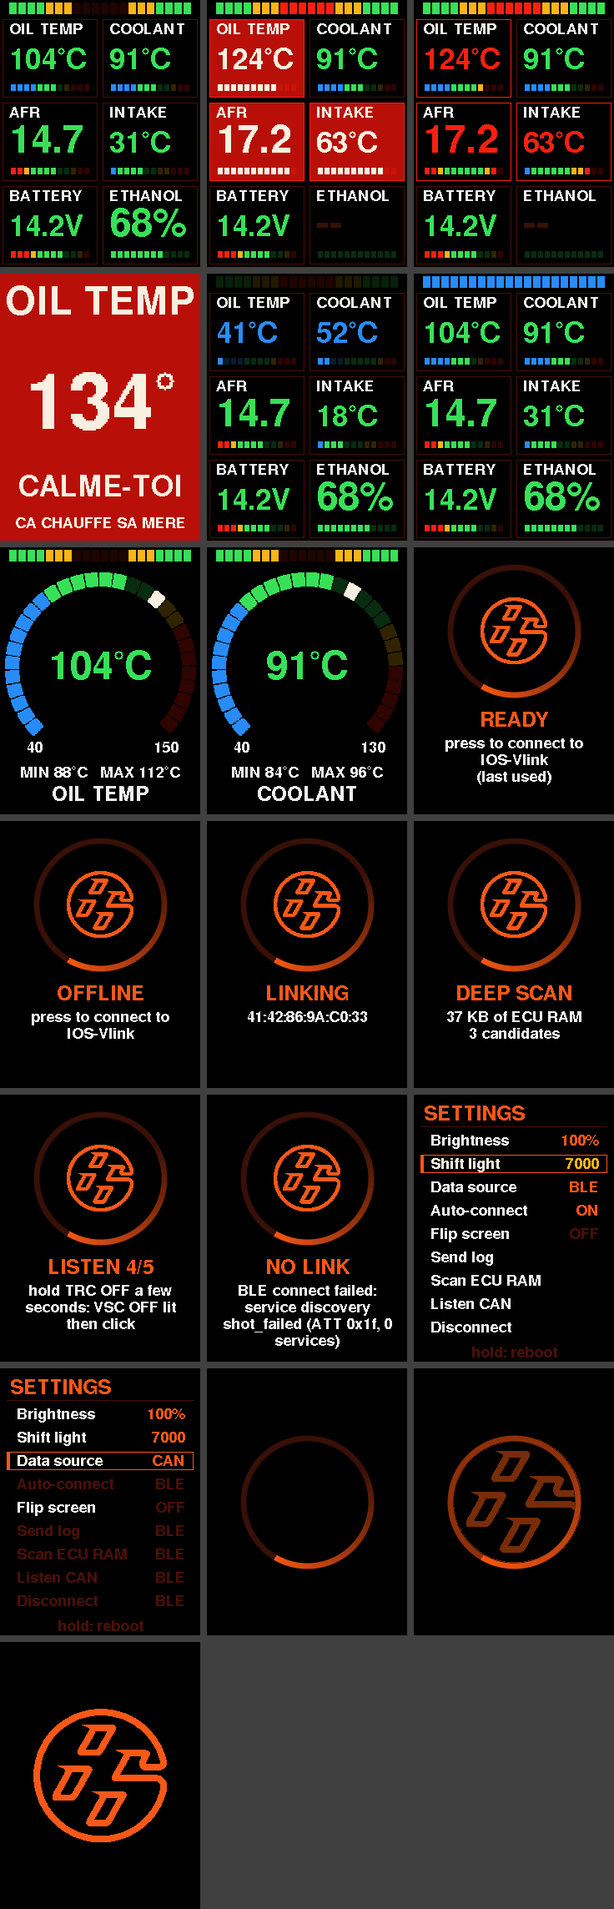
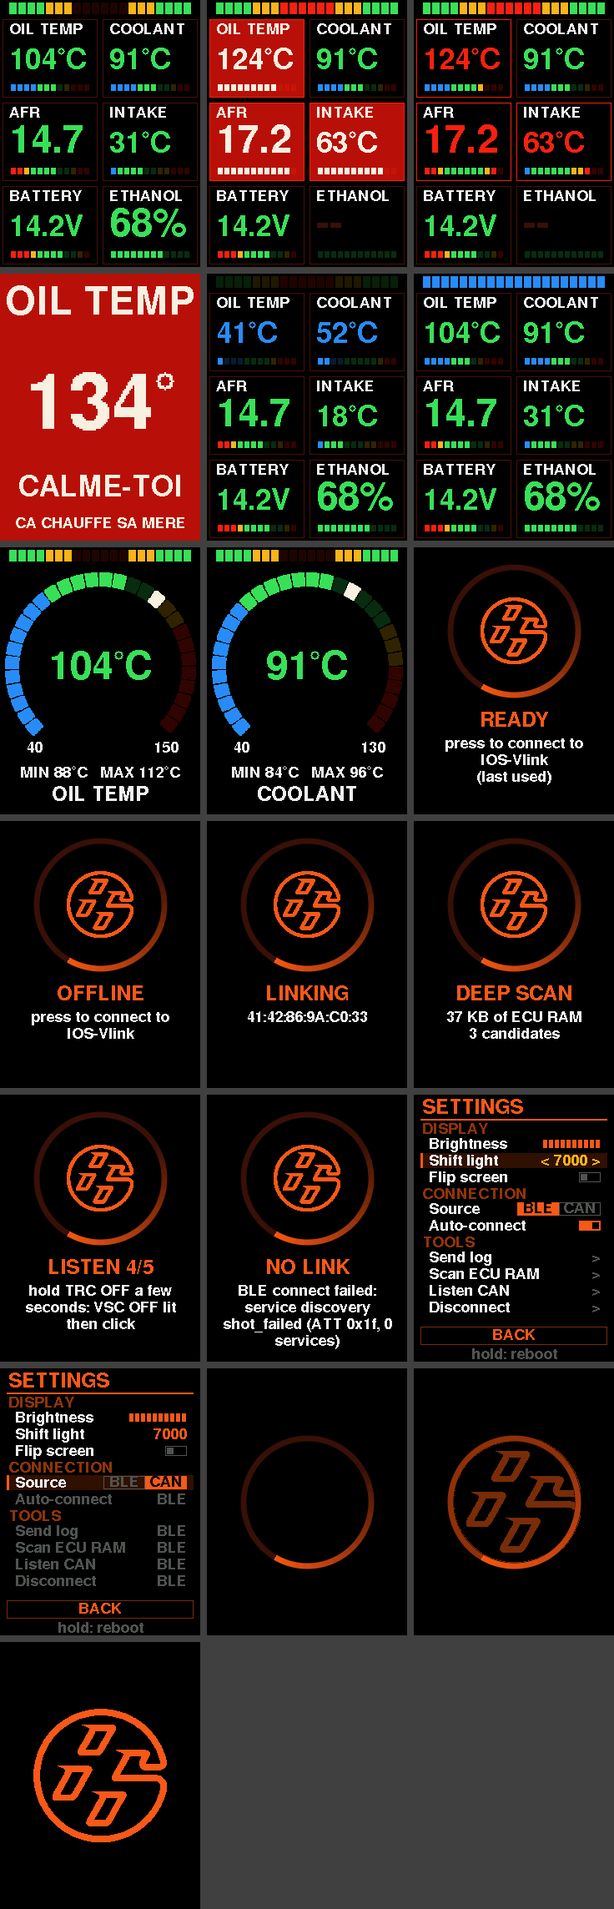
ci: GitHub Actions (prek hooks, firmware build), prek hooks set up by mise install; settings page redesigned on one screen in groups; docs in English, code files under 300 lines

Changed region(s): [[0.0, 0.7137, 0.3125, 0.8689], [0.6875, 0.5586, 1.0, 0.7137]]

diff --git a/web/index.html b/web/index.html
@@ -29,13 +29,13 @@
         <li class="flex gap-3"><span class="font-display text-xl font-bold text-accent">3</span>Keep this page open until the download ends.</li>
       </ol>
 
-      <button type="button" id="connect" class="mt-5 w-full rounded-xl bg-gradient-to-r from-accent to-hot py-4 font-display text-xl font-bold tracking-widest uppercase shadow-[0_0_30px_rgb(255_42_16/0.45)] transition active:scale-[0.98] disabled:opacity-40 disabled:shadow-none">
+      <button type="button" id="connect" class="mt-5 w-full rounded-xl bg-linear-to-r from-accent to-hot py-4 font-display text-xl font-bold tracking-widest uppercase shadow-[0_0_30px_rgb(255_42_16/0.45)] transition active:scale-[0.98] disabled:opacity-40 disabled:shadow-none">
         Connect and download
       </button>
 
       <div id="transfer" class="mt-5 hidden">
         <div class="relative h-3 overflow-hidden rounded-full bg-frame">
-          <div id="progress" class="sheen relative h-full w-0 overflow-hidden rounded-full bg-gradient-to-r from-accent to-hot transition-[width] duration-200"></div>
+          <div id="progress" class="sheen relative h-full w-0 overflow-hidden rounded-full bg-linear-to-r from-accent to-hot transition-[width] duration-200"></div>
         </div>
         <div class="mt-2 flex justify-between font-display text-lg text-dim">
           <span id="received">0 KB</span>

diff --git a/src/app/ui.c b/src/app/ui.c
@@ -308,12 +308,11 @@ int ui_wrap_text(const font_t *font, const char *s, int max_width, char out[][64
             break;
         }
         char candidate[64];
-        if (line[0]) {
-            snprintf(candidate, sizeof candidate, "%s %.*s", line, (int)word_len, s);
-        } else {
-            snprintf(candidate, sizeof candidate, "%.*s", (int)word_len, s);
-        }
-        if (line[0] && gfx_text_width(font, candidate) > max_width) {
+        int len = line[0] ? snprintf(candidate, sizeof candidate, "%s %.*s", line, (int)word_len, s)
+                          : snprintf(candidate, sizeof candidate, "%.*s", (int)word_len, s);
+        // Past the buffer counts as too wide: the word goes on the next line.
+        bool too_wide = len >= (int)sizeof candidate || gfx_text_width(font, candidate) > max_width;
+        if (line[0] && too_wide) {
             snprintf(out[n++], 64, "%s", line);
             snprintf(line, sizeof line, "%.*s", (int)word_len, s);
         } else {
@@ -426,54 +425,148 @@ static void draw_status_screen(canvas_t *c, const theme_t *t, const char *status
 }
 
 #define SETTINGS_MARGIN 8
-#define SETTINGS_TOP 44
-#define SETTINGS_ROW_HEIGHT 28
-#define SETTINGS_VISIBLE 9
+#define SETTINGS_HEADER 34
+#define SETTINGS_GROUP_HEIGHT 16
+#define SETTINGS_ROW_HEIGHT 20
+#define SETTINGS_BACK_HEIGHT 22
+
+// The settings page's groups, each a run of rows under a title; Back is
+// a button under them. Everything fits: no scrolling.
+static const struct {
+    const char *title;
+    int first, last;
+} settings_groups[] = {
+    {"DISPLAY", ROW_BRIGHTNESS, ROW_FLIP},
+    {"CONNECTION", ROW_SOURCE, ROW_AUTO_CONNECT},
+    {"TOOLS", ROW_SEND_LOG, ROW_DISCONNECT},
+};
+
+static const char *const settings_labels[SETTINGS_ROWS] = {
+    [ROW_BRIGHTNESS] = "Brightness", [ROW_SHIFT_LIGHT] = "Shift light",   [ROW_FLIP] = "Flip screen",
+    [ROW_SOURCE] = "Source",         [ROW_AUTO_CONNECT] = "Auto-connect", [ROW_SEND_LOG] = "Send log",
+    [ROW_SCAN] = "Scan ECU RAM",     [ROW_LISTEN] = "Listen CAN",         [ROW_DISCONNECT] = "Disconnect",
+};
+
+// draw_toggle draws a switch ending at right, centered on cy: lit, its
+// knob to the right.
+static void draw_toggle(canvas_t *c, const theme_t *t, int right, int cy, bool on) {
+    int w = 26, h = 12, x = right - w, y = cy - h / 2;
+    color_t dim = gfx_blend(t->background, t->label, 0.35f);
+    if (on) {
+        gfx_fill_rect(c, x, y, w, h, t->accent);
+        gfx_fill_rect(c, x + w - 10, y + 2, 8, h - 4, t->background);
+    } else {
+        draw_outline(c, x, y, w, h, dim);
+        gfx_fill_rect(c, x + 2, y + 2, 8, h - 4, dim);
+    }
+}
+
+// draw_choice draws options side by side ending at right, the chosen one
+// filled, centered on cy.
+static void draw_choice(canvas_t *c, const theme_t *t, int right, int cy, const char *const options[], int count,
+                        int chosen) {
+    int w = 0, h = 16;
+    color_t dim = gfx_blend(t->background, t->label, 0.35f);
+    for (int i = 0; i < count; i++) {
+        int text = gfx_text_width(label_font, options[i]) + 10;
+        w = text > w ? text : w;
+    }
+    for (int i = 0; i < count; i++) {
+        int x = right - (count - i) * w, y = cy - h / 2;
+        if (i == chosen) {
+            gfx_fill_rect(c, x, y, w, h, t->accent);
+        } else {
+            draw_outline(c, x, y, w, h, dim);
+        }
+        draw_text_centered(c, label_font, x + w / 2, y + 12, options[i], i == chosen ? t->background : dim, 1);
+    }
+}
+
+// draw_settings_value draws row's value or control, ending at right,
+// centered on cy.
+static void draw_settings_value(canvas_t *c, const theme_t *t, int row, int right, int cy, const settings_t *cfg,
+                                bool selected, bool editing) {
+    color_t dim = gfx_blend(t->background, t->label, 0.35f);
+    color_t value = editing ? t->warning : t->accent;
+    switch (row) {
+    case ROW_BRIGHTNESS: {
+        // The gauges' segments: one per brightness step.
+        enum { COUNT = (BRIGHTNESS_MAX - BRIGHTNESS_MIN) / BRIGHTNESS_STEP + 1 };
+        color_t colors[COUNT];
+        for (int i = 0; i < COUNT; i++) {
+            colors[i] =
+                BRIGHTNESS_MIN + i * BRIGHTNESS_STEP <= cfg->brightness ? value : gfx_blend(t->background, value, 0.2f);
+        }
+        draw_segment_bar(c, right - 70, cy - 5, 70, 10, COUNT, colors);
+        break;
+    }
+    case ROW_SHIFT_LIGHT: {
+        char text[16];
+        snprintf(text, sizeof text, editing ? "< %d >" : "%d", cfg->shift_rpm);
+        if (!cfg->shift_rpm) {
+            snprintf(text, sizeof text, editing ? "< OFF >" : "OFF");
+        }
+        color_t color = editing ? t->warning : cfg->shift_rpm ? t->accent : dim;
+        gfx_text(c, label_font, right - gfx_text_width(label_font, text), cy + 5, text, color, 1);
+        break;
+    }
+    case ROW_FLIP:
+        draw_toggle(c, t, right, cy, cfg->flip);
+        break;
+    case ROW_AUTO_CONNECT:
+        draw_toggle(c, t, right, cy, cfg->auto_connect);
+        break;
+    case ROW_SOURCE: {
+        static const char *const sources[] = {"BLE", "CAN"};
+        draw_choice(c, t, right, cy, sources, 2, cfg->source == SOURCE_BLE ? 0 : 1);
+        break;
+    }
+    default: // an action
+        gfx_text(c, label_font, right - gfx_text_width(label_font, ">"), cy + 5, ">", selected ? t->accent : dim, 1);
+        break;
+    }
+}
 
 static void draw_settings_page(canvas_t *c, const theme_t *t, const screen_t *screen, const settings_t *cfg) {
-    gfx_text(c, &font_bold12, SETTINGS_MARGIN + 4, 30, "SETTINGS", t->accent, 1);
-    gfx_fill_rect(c, SETTINGS_MARGIN, 38, c->width - 2 * SETTINGS_MARGIN, 1, t->frame);
-    char brightness[8], shift[8];
-    snprintf(brightness, sizeof brightness, "%d%%", cfg->brightness);
-    snprintf(shift, sizeof shift, cfg->shift_rpm ? "%d" : "OFF", cfg->shift_rpm);
-    const char *rows[SETTINGS_ROWS][2] = {
-        [ROW_BRIGHTNESS] = {"Brightness", brightness},
-        [ROW_SHIFT_LIGHT] = {"Shift light", shift},
-        [ROW_SOURCE] = {"Data source", cfg->source == SOURCE_BLE ? "BLE" : "CAN"},
-        [ROW_AUTO_CONNECT] = {"Auto-connect", cfg->auto_connect ? "ON" : "OFF"},
-        [ROW_FLIP] = {"Flip screen", cfg->flip ? "ON" : "OFF"},
-        [ROW_SEND_LOG] = {"Send log", ""},
-        [ROW_SCAN] = {"Scan ECU RAM", ""},
-        [ROW_LISTEN] = {"Listen CAN", ""},
-        [ROW_DISCONNECT] = {"Disconnect", ""},
-        [ROW_BACK] = {"Back", ""},
-    };
-    // More rows than fit: the page scrolls to keep the cursor in view.
-    int first = screen->cursor < SETTINGS_VISIBLE ? 0 : screen->cursor - SETTINGS_VISIBLE + 1;
-    for (int i = first; i < SETTINGS_ROWS && i < first + SETTINGS_VISIBLE; i++) {
-        int y = SETTINGS_TOP + (i - first) * SETTINGS_ROW_HEIGHT;
-        // With the CAN source, the rows needing the dongle are dimmed and say why.
-        bool ble_only = cfg->source != SOURCE_BLE && screen_row_needs_ble(i);
-        const char *shown = ble_only ? "BLE" : rows[i][1];
-        bool off = ble_only || strcmp(shown, "OFF") == 0;
-        color_t label = ble_only ? t->frame : t->label, value = off ? t->frame : t->accent;
-        if (i == screen->cursor) {
-            int h = SETTINGS_ROW_HEIGHT - 6;
-            draw_outline(c, SETTINGS_MARGIN, y, c->width - 2 * SETTINGS_MARGIN, h, t->accent);
-            gfx_fill_rect(c, SETTINGS_MARGIN, y, 4, h, t->accent);
-            label = ble_only ? t->label : t->alarm_text;
-            if (off) {
-                value = t->label;
+    int left = SETTINGS_MARGIN, right = c->width - SETTINGS_MARGIN, width = right - left;
+    color_t dim = gfx_blend(t->background, t->label, 0.35f);
+    gfx_text(c, &font_bold12, left + 2, 22, "SETTINGS", t->accent, 1);
+    gfx_fill_rect(c, left, 29, width, 2, t->accent);
+
+    int y = SETTINGS_HEADER;
+    for (size_t g = 0; g < sizeof settings_groups / sizeof settings_groups[0]; g++) {
+        gfx_text(c, label_font, left + 2, y + 12, settings_groups[g].title, gfx_blend(t->background, t->accent, 0.6f),
+                 1);
+        y += SETTINGS_GROUP_HEIGHT;
+        for (int row = settings_groups[g].first; row <= settings_groups[g].last; row++, y += SETTINGS_ROW_HEIGHT) {
+            bool selected = row == screen->cursor;
+            // With the CAN source, the rows needing the dongle are dimmed and say why.
+            bool ble_only = cfg->source != SOURCE_BLE && screen_row_needs_ble(row);
+            int h = SETTINGS_ROW_HEIGHT - 2, cy = y + h / 2;
+            if (selected) {
+                gfx_fill_rect(c, left, y, width, h, gfx_blend(t->background, t->accent, 0.2f));
+                gfx_fill_rect(c, left, y, 3, h, t->accent);
             }
-            if (screen->editing) {
-                value = t->warning;
+            gfx_text(c, label_font, left + 10, cy + 5, settings_labels[row], ble_only ? dim : t->label, 1);
+            if (ble_only) {
+                const char *why = "BLE";
+                gfx_text(c, label_font, right - 8 - gfx_text_width(label_font, why), cy + 5, why, dim, 1);
+            } else {
+                draw_settings_value(c, t, row, right - 8, cy, cfg, selected, selected && screen->editing);
             }
         }
-        gfx_text(c, label_font, SETTINGS_MARGIN + 12, y + 16, rows[i][0], label, 1);
-        int width = gfx_text_width(label_font, shown);
-        gfx_text(c, label_font, c->width - SETTINGS_MARGIN - 10 - width, y + 16, shown, value, 1);
+        y += 2;
     }
-    draw_text_centered(c, label_font, c->width / 2, c->height - 6, "hold: reboot", t->frame, 1);
+
+    int back_y = c->height - SETTINGS_BACK_HEIGHT - 20;
+    if (screen->cursor == ROW_BACK) {
+        gfx_fill_rect(c, left, back_y, width, SETTINGS_BACK_HEIGHT, t->accent);
+    } else {
+        draw_outline(c, left, back_y, width, SETTINGS_BACK_HEIGHT, gfx_blend(t->background, t->accent, 0.5f));
+    }
+    draw_text_centered(c, label_font, c->width / 2, back_y + 15, "BACK",
+                       screen->cursor == ROW_BACK ? t->background : t->accent, 1);
+    draw_text_centered(c, label_font, c->width / 2, c->height - 4, "hold: reboot", dim, 1);
 }
 
 // The shift light is a race car steering wheel's LED bar across the top:

diff --git a/test/tests.c b/test/tests.c
@@ -533,6 +533,9 @@ static void test_screen(void) {
     CHECK(cfg.shift_rpm == 0, "shift light %d turned all the way down, want off", cfg.shift_rpm);
     screen_apply_turn(&s, 1, 6, &cfg);
     screen_apply_click(&s, &cfg);
+    CHECK(cfg.flip, "a click on flip didn't turn it on");
+    screen_apply_turn(&s, 1, 6, &cfg);
+    screen_apply_click(&s, &cfg);
     CHECK(cfg.source == SOURCE_CAN, "a click on the data source didn't switch it to CAN");
     // With the CAN source, the rows needing the dongle do nothing.
     for (int row = 0; row < SETTINGS_ROWS; row++) {
@@ -549,9 +552,6 @@ static void test_screen(void) {
     screen_apply_turn(&s, 1, 6, &cfg);
     screen_apply_click(&s, &cfg);
     CHECK(cfg.auto_connect, "a click on auto-connect didn't turn it on");
-    screen_apply_turn(&s, 1, 6, &cfg);
-    screen_apply_click(&s, &cfg);
-    CHECK(cfg.flip, "a click on flip didn't turn it on");
     static const struct {
         int row;
         action_t action;

diff --git a/src/app/screen.h b/src/app/screen.h
@@ -20,13 +20,14 @@ typedef enum {
     PAGE_SETTINGS,
 } page_t;
 
-// Rows of the settings page, top to bottom.
+// Rows of the settings page, top to bottom, in its groups: display,
+// connection, tools, then Back.
 enum {
     ROW_BRIGHTNESS,
     ROW_SHIFT_LIGHT,
+    ROW_FLIP,
     ROW_SOURCE,
     ROW_AUTO_CONNECT,
-    ROW_FLIP,
     ROW_SEND_LOG,
     ROW_SCAN,
     ROW_LISTEN,

diff --git a/TODO.md b/TODO.md
@@ -1,45 +1,48 @@
 # TODO
 
-- [ ] Passer en mode filaire avec le MCP2515
-- [x] Schéma de câblage en HTML (`docs/wiring.html`) : une version modules en couleur, une version blueprint, deux liens pour passer de l'une à l'autre
-- [x] Captures du schéma (couleur et blueprint) dans `docs/resources/`, générées par `mise run wiring`, affichées dans `docs/wiring.md`
-- [x] Qualité de code : hooks prek (clang-format pour le C, Biome pour le TS/CSS/JSON, tsc, tests hôte)
-- [ ] Activer les hooks : `prek install` (une fois, dans ce clone)
-- [ ] Éthanol sans câblage : lancer « Scan ECU RAM » moteur tournant en notant l'E% d'OFT, puis lire les candidats dans les logs
-- [ ] VSC / TRC OFF : 1er Listen CAN = un seul candidat, 0x0D3 (octet 0 bit 5 TRC off, octet 1 bit 3 VSC off, octet 3 bit 0 VSC actif) ; refaire un 2e passage pour confirmer avant de s'en servir
-- [ ] Vérifier dans la caisse : polling multi-PID (log `polling every PID at once`), jauges plus réactives
-- [ ] Vérifier dans la caisse : Send log vers le téléphone, accusé de réception et retour aux jauges
-- [ ] Vérifier dans la caisse : nom du dongle lu et affiché sur READY et OFFLINE, reconnexion depuis OFFLINE sans reboot
-- [ ] Vérifier sur la carte : encodeur demi-pas (un cran = une ligne), loader fluide
-- [ ] Héberger la page web sur gt.ombrage.space (`Dockerfile` à la racine, derrière le proxy https)
-- [x] Doc câblage, section MCP2515 : plus de références au code Go, `DATA_SOURCE` et les registres CNF à la place
-- [x] Façade imprimable (écran ST7789 + encodeur KY-040) : modèle scad-js, rendu STL + PNG par `mise run faceplate`
-- [x] Encodeur : deux colonnes au dos de la façade pour visser la carte HW-040 (M2), en plus de l'écrou
-- [x] Plateau vissé derrière la façade : Pico, convertisseur 12V/5V et MCP2515 sur entretoises, fente pour les fils
-- [x] MCP2515 : registres CNF pour le quartz 8 MHz de la carte bleue (500 kbps, échantillonnage à 75 %)
-- [x] Onglet Dimensions sur la page de câblage (`bun run wiring`) : chaque module dessiné avec ses cotes, mesurées ou devinées
-- [x] Saisie des cotes dans l'onglet Dimensions : enregistrement automatique dans `faceplate/data/measured.json` (et le navigateur tant que le serveur ne l'a pas), relance `mise run faceplate`, une cote refusée reste enregistrée ; survol d'une ligne = la cote surlignée sur les dessins (vues de dessus et de côté), dessins fixés à l'écran pendant le défilement
-- [x] Cotes : on saisit le trou de la carte (il choisit M2 ou M3), plus le trou pilote ; encodeur sans filetage ni écrou (tenu par ses 2 vis)
-- [x] Plan de câblage : connecteurs dans leur vrai ordre, chaque carte retournable (vue de dos par défaut, Pico par-dessous), bouton BLE / filaire, convertisseur en micro-USB dans le Pico
-- [ ] WIP Façade : 1er essai PLA corrigé (écran 37,5 x 58 + dégagement des soudures, encodeur tourné sur 4 colonnes, colonnes du Pico coupées pour l'USB, convertisseur hors plateau) ; reste à mesurer la vitre de l'écran (épaisseur, longueur, position) et la hauteur du corps de l'encodeur, puis réimprimer
-- [ ] WIP Façade v2 : creux pour les soudures aux deux bouts de l'écran, connecteur de l'encodeur ressoudé au dos de la carte (gorge sous la carte seulement s'il reste côté potard), convertisseur oreilles coupées au dos du plateau entre le Pico et le MCP2515 (butées, rilsan), Pico retourné avec ses picots et fiches à travers le plateau : l'ensemble passe de 77 x 127 à 54 x 97 mm, rendu de l'assemblage avec chaque composant modélisé
-- [x] Trous de l'écran à 2,2 mm des bords, jamais moins de 1 mm de paroi contre la poche de la vitre (le 1er essai a éclaté)
-- [ ] Encodeur : mesurer au pied à coulisse le décalage des trous vers le connecteur (encoder.holesTowardPins, 2 mm lu sur photo), puis réimprimer la façade
-- [x] Plateau : nervure de 6 mm au dos de chaque pont au bout des fentes du Pico (il cassait là au démoulage et à la pose du transfo), loin de la prise micro-USB
-- [x] Rebord de 2 x 2 mm le long du bord : au dos de la façade, au dos du plateau (entaillé autour des têtes de vis et pour la fiche micro-USB du Pico) ; aucun sur les faces avant, imprimées à plat sans supports
-- [x] Schéma de câblage : fils de couleurs différentes jamais superposés (broches des modules décalées d'un demi-pas), étiquettes lisibles par-dessus les fils
-- [x] Sélecteur de source dans les réglages (Data source : BLE / CAN), appliqué par un redémarrage en quittant la page ; le MCP2515 peut rester câblé en BLE, les lignes qui ont besoin du dongle sont grisées en CAN
-- [ ] Transfo : couper ses oreilles au ras du boîtier
-- [x] Encodeur : pastilles du connecteur arrachées, 4 fils soudés sur ses pattes (C vers GND, A GP2, B GP3, la patte du bouton à côté de R1 vers GP4 ; pas de pont : la carte relie déjà C à l'autre patte du bouton, un pont le court-circuite), colle chaude dessus ; A sur GP3 et B sur GP2 pour le bon sens ; enlever R2 et R3 (le + en l'air relie A et B par 20K : un cran sur deux perdu)
-- [ ] Façade : fixation dans la voiture (où elle va, comment elle tient)
-- [x] AFR pied levé : papillon (PID 0x11) lu avec le reste, l'AFR (pauvre à la coupure d'injection en décélération) s'affiche en blanc sans alerte tant que le papillon est fermé (min de la session + 5 %) et 1 s après sa réouverture
-- [ ] Vérifier dans la caisse : AFR blanc sans clignoter au lever de pied, rouge s'il est pauvre pied au plancher
-- [x] Multi-PID actif sur la voiture : `010C24050F113` répond en 3 trames, `polling every PID at once` (papillon 14 à 17 % au ralenti)
-- [x] Multi-PID jamais actif : le dongle IOS-Vlink compte des trames, pas des réponses, le « 1 » le coupait après la 1re trame ; le chiffre vaut maintenant 3 (les 3 trames de la réponse)
-- [x] Scan RAM : 120 candidats loggés au lieu de 40 (79 et 58 trouvés, la fin de la RAM manquait)
-- [x] Listen CAN par bit au lieu de par ID : 1er essai, 15 IDs bruyants sur 36 et 0 candidat (le drapeau partage sa trame avec un compteur)
-- [x] Listen CAN guidé : 5 étapes (tout actif, TRC OFF, actif, tout coupé, actif), chacune annoncée à l'écran et écoutée après un clic du potard ; candidats = bits stables dans chaque étape, identiques dans les étapes « actif », différents entre modes
-- [x] Éthanol lu dans la RAM de l'ECU moteur : FFF87C7C (float, seule adresse dans les 3 scans, colle avec OFT), demandée toutes les 3 s avec l'huile, tuile éthanol
-- [ ] Éthanol : vérifier au plein suivant (autre mélange) que la tuile suit OFT
-- [x] Option « Ethanol sensor » retirée (entrée ADC, diviseur, réglage) : l'éthanol vient de la RAM de l'ECU
-- [x] Licence MIT (sauf la police, GPLv3 avec exception, et le logo 86 de Toyota)
+- [ ] Switch to the wired mode with the MCP2515
+- [x] Wiring diagram in HTML (`docs/wiring.html`): a color modules version, a blueprint version, two links to switch between them
+- [x] Diagram captures (color and blueprint) in `docs/resources/`, made by `mise run wiring`, shown in `docs/wiring.md`
+- [x] Code quality: prek hooks (clang-format for the C, Biome for the TS/CSS/JSON, tsc, host tests)
+- [x] Hooks set up: `mise install` runs `prek install` (mise.toml's postinstall)
+- [x] GitHub Actions CI: the prek hooks (clang-format, Biome, tsc, host tests under gcc) and the firmware build (UF2 as an artifact)
+- [ ] Ethanol without wiring: run "Scan ECU RAM" with the engine running, noting OFT's E%, then read the candidates in the logs
+- [ ] VSC / TRC OFF: the first Listen CAN found a single candidate, 0x0D3 (byte 0 bit 5 TRC off, byte 1 bit 3 VSC off, byte 3 bit 0 VSC on); run it a second time to confirm before using it
+- [ ] Check in the car: multi-PID polling (log `polling every PID at once`), snappier gauges
+- [ ] Check in the car: Send log to the phone, acknowledged, back to the gauges
+- [ ] Check in the car: the dongle's name read and shown on READY and OFFLINE, reconnecting from OFFLINE without a reboot
+- [ ] Check on the board: half-step encoder (one detent = one row), smooth loader
+- [ ] Host the web page on gt.ombrage.space (`Dockerfile` at the root, behind the https proxy)
+- [x] Wiring doc, MCP2515 section: no more references to the Go code, `DATA_SOURCE` and the CNF registers instead
+- [x] Printable faceplate (ST7789 display + KY-040 encoder): scad-js model, STL + PNG renders by `mise run faceplate`
+- [x] Encoder: two posts on the faceplate's back to screw the HW-040 board on (M2), besides the nut
+- [x] Tray screwed behind the faceplate: Pico, 12V/5V converter and MCP2515 on standoffs, a slot for the wires
+- [x] MCP2515: CNF registers for the blue board's 8 MHz crystal (500 kbps, sampled at 75%)
+- [x] Dimensions tab on the wiring page (`bun run wiring`): each module drawn with its dimensions, measured or guessed
+- [x] Entering dimensions in the Dimensions tab: saved as typed to `faceplate/data/measured.json` (and the browser until the server has it), reruns `mise run faceplate`, a refused value stays saved; hovering a row highlights the dimension on the drawings (top and side views), drawings pinned while scrolling
+- [x] Dimensions: enter the board's hole (it picks M2 or M3), plus the pilot hole; encoder without thread or nut (held by its 2 screws)
+- [x] Wiring plan: headers in their real order, each board can be turned over (back view by default, Pico from below), BLE / wired button, converter into the Pico's micro-USB
+- [ ] WIP Faceplate: first PLA test fixed (display 37.5 x 58 + room for the solder joints, encoder turned on 4 posts, Pico posts cut for the USB, converter off the tray); still to measure the display's glass (thickness, length, position) and the encoder body's height, then reprint
+- [ ] WIP Faceplate v2: recesses for the solder joints at both ends of the display, the encoder's header resoldered on the board's back (a channel under the board only if it stays on the knob side), the converter with its ears cut off on the tray's back between the Pico and the MCP2515 (stops, zip tie), the Pico turned over with its pins and plugs through the tray: the assembly goes from 77 x 127 to 54 x 97 mm, an assembly render with every component modeled
+- [x] Display holes 2.2 mm from the edges, never less than 1 mm of wall beside the glass pocket (the first test print cracked)
+- [ ] Encoder: measure with calipers how far the holes sit toward the header (encoder.holesTowardPins, 2 mm read off a photo), then reprint the faceplate
+- [x] Tray: a 6 mm rib on the back of each bridge at the end of the Pico's slots (it broke there off the bed and fitting the converter), clear of the micro-USB plug
+- [x] A 2 x 2 mm rim along the edge: on the faceplate's back, on the tray's back (notched around the screw heads and for the Pico's micro-USB plug); none on the fronts, printed flat without supports
+- [x] Wiring diagram: wires of different colors never on top of each other (module pins offset by half a pitch), labels readable over the wires
+- [x] Source selector in the settings (Data source: BLE / CAN), applied by a reboot when leaving the page; the MCP2515 can stay wired in BLE, the rows needing the dongle are dimmed with CAN
+- [ ] Converter: cut its ears off flush with the box
+- [x] Encoder: header pads torn off, 4 wires soldered on its legs (C to GND, the button leg next to R1 to GP4; no bridge: the board already ties C to the button's other leg, a bridge shorts it), hot glue over them; A on GP3 and B on GP2 for the right direction; remove R2 and R3 (the floating + ties A and B through 20K: every other detent lost)
+- [ ] Faceplate: mounting in the car (where it goes, how it holds)
+- [x] AFR off the throttle: throttle (PID 0x11) read with the rest, the AFR (lean in the deceleration fuel cut) drawn white with no alarm while the throttle is closed (session minimum + 5%) and 1s after it opens
+- [ ] Check in the car: AFR white without blinking when lifting off, red if lean with the pedal down
+- [x] Multi-PID on in the car: `010C24050F113` answers in 3 frames, `polling every PID at once` (throttle 14 to 17% idling)
+- [x] Multi-PID never on: the IOS-Vlink dongle counts frames, not answers, the "1" cut it after the first frame; the digit is now 3 (the answer's 3 frames)
+- [x] RAM scan: 120 candidates logged instead of 40 (79 and 58 found, the end of the RAM was missing)
+- [x] Listen CAN by bit instead of by ID: first run, 15 noisy IDs out of 36 and no candidate (the flag shares its frame with a counter)
+- [x] Guided Listen CAN: 5 steps (everything on, TRC OFF, on, everything off, on), each prompted on screen and listened to after a knob click; candidates = bits steady within each step, the same in the "on" steps, different between modes
+- [x] Ethanol read from the engine ECU's RAM: FFF87C7C (a float, the only address in all 3 scans, matches OFT), asked every 3s with the oil, ethanol tile
+- [ ] Ethanol: check at the next fill-up (another blend) that the tile follows OFT
+- [x] "Ethanol sensor" option dropped (ADC input, divider, setting): the ethanol comes from the ECU's RAM
+- [x] MIT license (except the font, GPLv3 with the font exception, and Toyota's 86 logo)
+- [x] Settings page redesigned: one screen without scrolling, DISPLAY / CONNECTION / TOOLS groups, a BACK button, values as controls (segment bar, switches, BLE | CAN choice, chevrons)
+- [ ] Split the code files over about 300 lines: `docs/wiring.html` (1363), `src/firmware/ble.c` (895), `src/app/ui.c` (711), `test/tests.c` (690), `src/app/elm327.c` (601), `faceplate/model/faceplate.ts` (348), `src/firmware/main.c` (303)

diff --git a/CLAUDE.md b/CLAUDE.md
@@ -20,11 +20,11 @@ mise run wiring      # docs/wiring.html (color, blueprint) -> docs/resources/*.p
 bun run wiring       # serves docs/wiring.html on localhost:3001 and opens it: drag to move, cmd+scroll or pinch to zoom, double-click to fit, click a wire to follow its net, click a board to turn it over (headers in their real order; by default the side you wire from: the Pico from below, mirroring the plan), a button switches BLE dongle / wired MCP2515; its Dimensions tab edits every module's dimension (checked or guessed; hovering a row highlights it on the drawings), saving each as it's typed to faceplate/measured.json (and the browser until the server has it), then rerunning mise run faceplate; a value the model refuses stays saved, the page says why
 mise run faceplate   # the printed parts (scad-js, one class per part, dimensions in faceplate/model/config.ts, overridden by the measured ones in faceplate/data/measured.json): faceplate (display + encoder) and tray (Pico components out with its pins and plugs through 2 slots, the converter with its ears cut off, MCP2515), no bigger than the faceplate -> faceplate/stl/*.stl (binary, openscad-wasm) + faceplate/renders/*.png (OpenSCAD from mise; the assembly ones with every module modeled in place, `faceplate/model/mockups.ts`) + faceplate/data/dimensions.js for the wiring page's Dimensions tab: rerun after a change and look at them
 mise run assembly    # opens faceplate/renders/assembly.scad (written by mise run faceplate: both parts with every module modeled in place) in OpenSCAD's window, to turn it around in 3D; F5 keeps the colors
-prek install         # once per clone: the git hooks (.pre-commit-config.yaml): clang-format, biome, tsc, host tests
+mise install         # the pinned tools, then the git hooks (`prek install`, mise.toml's postinstall): clang-format, biome, tsc, host tests
 prek run --all-files # every hook on every tracked file
 ```
 
-The ARM toolchain (14.3.Rel1), CMake, Ninja, Python, Bun, prek, OpenSCAD (a nightly snapshot) and the SDK version/path are pinned in `mise.toml`; the web and tooling packages (Tailwind, Biome, Playwright, scad-js, openscad-wasm) in `package.json`. Our sources build with `-Wall -Wextra -Werror` on every target (SDK sources excepted): a warning is a failed build, there's no C linter beyond it; clang-format (`.clang-format`) formats the C, Biome (`biome.json`) lints and formats the TypeScript, CSS and JSON, both through the prek hooks.
+The ARM toolchain (14.3.Rel1), CMake, Ninja, Python, Bun, prek, OpenSCAD (a nightly snapshot) and the SDK version/path are pinned in `mise.toml`; the web and tooling packages (Tailwind, Biome, Playwright, scad-js, openscad-wasm) in `package.json`. Our sources build with `-Wall -Wextra -Werror` on every target (SDK sources excepted): a warning is a failed build, there's no C linter beyond it; clang-format (`.clang-format`) formats the C, Biome (`biome.json`) lints and formats the TypeScript, CSS and JSON, both through the prek hooks. The CI (GitHub Actions) runs every hook (`prek run --all-files`) and builds the firmware on Ubuntu: the host tests build with gcc there, whose `-Wformat-truncation` clang doesn't have (use what `snprintf` returns).
 
 This project started in Go/TinyGo and was rewritten in C (see git history before `cbb43b4`): TinyGo's cooperative scheduler, 8KB goroutine stacks, fonts in RAM and its USB and BLE stacks kept breaking on the Pico W.
 
@@ -39,7 +39,7 @@ Data flows one way: **source -> `state_t` -> `ui_render(canvas, state, screen, s
 - `elm327.c` is a non-blocking ELM327 session: init script (ATZ, echo/spaces off, headers on, ATSP6, ATSH7DF), probes whose raw answers are logged (ATI, ATRV, 0100/0120/0140 supported-PID bitmaps, 010C, and `010C24050F111`: if its answer holds all five PIDs, polling asks for them in one request), then a poll cycle (that one request, or RPM every other request between AFR, throttle, coolant and intake one at a time; ATRV every second, and every 3s the engine ECU's own reads: ATSH7E0, 2101 for the oil temperature, `ETHANOL_RAM_READ` for the ethanol %, ATSH7DF, each dropped after 3 answers without its value while the ECU answers the rest). Multi-frame answers are reassembled by `isotp_add_frame`. Timeouts resend `ELM_RETRIES` times. With headers on each reply line is a CAN frame, decoded by `obd_decode_frame` (ECU1 0x7E8, 11bit IDs only). The "1" response-count suffix is dropped if the dongle answers `?`. "Scan ECU RAM" in the settings (`elm_request_ram_scan`) suspends polling to read the engine ECU's RAM and log ethanol % candidates (see below), with its progress as the status. "Listen CAN" (`elm_request_can_listen`, `sniff.c`) looks for the VSC / TRC OFF mode's bits: it prompts 5 steps (everything on, TRC OFF, on, everything off, on), each listened to once the driver clicks (`ble_handle_click` -> `elm_listen_click`); the dongle monitors one window of 256 IDs at a time (ATCAF0, ATCM700, ATCF, ATMA, frames fed line by line as they stream), twice over the bus per step; a bit changing within a step is noise, a candidate is quiet within every step, the same in the "on" steps and different between modes (by bit, not by ID: a flag shares its frame with a rolling counter); the candidates are logged with their data per mode and the session restarts with ATZ. A first run found them in 0x0D3 (byte 0 bit 5 TRC off, byte 1 bit 3 VSC off, byte 3 bit 0 VSC on): one run, unconfirmed.
 - Connection control: without auto-connect the source waits on "press to connect" while the radio scans in the background and names the dongle a click connects to straight away (the last one connected to, kept in the settings, if it's around; else the first seen), by name: the advertised one, else the GAP device name (2A00) read at each connection and kept with it, else the address; a failure waits for a click to retry (auto-connect: retries after 5s). `main.c` hands a click to `ble_handle_click` only on the gauges page. A retry is `watchdog_reboot` with `CONNECT_NOW` in watchdog scratch 0, so the next boot connects without asking.
 - Standby: once polling, if the engine ECU hasn't answered anything for `CAR_OFF_MS` (90s), `ble.c` disconnects (so the dongle, always powered by the OBD port, can sleep) and powers the radio off; `main.c` puts the panel to sleep and stops drawing. A click reboots to connect. It saves what software can: a Pico on an always-live supply still draws ~20mA.
-- `screen_t` is what the encoder drives: on the gauges, turning cycles views (grid, then each gauge alone, its value drawn 2-3x by `gfx_text`'s scale instead of a bigger font); a click opens the settings page (brightness, shift light RPM, data source: the BLE dongle or the MCP2515, saved and applied by a reboot when leaving the page, the rows needing the dongle dimmed and inert with CAN; auto-connect, flip; Scan ECU RAM, Listen CAN, Disconnect: `ble_go_offline` lets the dongle go and powers the radio off with the screen on, naming the dongle; a click powers the radio back on and connects straight to it, no reboot), which `main.c` applies at once and saves to flash when leaving the page. A 1s hold reboots.
+- `screen_t` is what the encoder drives: on the gauges, turning cycles views (grid, then each gauge alone, its value drawn 2-3x by `gfx_text`'s scale instead of a bigger font); a click opens the settings page (one screen, no scrolling: groups DISPLAY, CONNECTION, TOOLS, then a BACK button; values drawn as controls: a segment bar, switches, a BLE | CAN choice, chevrons on actions; brightness, shift light RPM, data source: the BLE dongle or the MCP2515, saved and applied by a reboot when leaving the page, the rows needing the dongle dimmed and inert with CAN; auto-connect, flip; Scan ECU RAM, Listen CAN, Disconnect: `ble_go_offline` lets the dongle go and powers the radio off with the screen on, naming the dongle; a click powers the radio back on and connects straight to it, no reboot), which `main.c` applies at once and saves to flash when leaving the page. A 1s hold reboots.
 - `state_t.status` is the source's report while it isn't delivering: while non-empty, the gauges page draws a status screen (title, wrapped lines, spinner) instead of the tiles. A reading older than its tile's `stale_ms` renders as "--" (2s, 10s for the oil temperature polled every 3s). At power-on `ui_render_boot` shows a spinner whose ring closes into the logo's circle as the logo fades in. The spinner (boot and status screens) is drawn per pixel, anti-aliased, from a quadrant of the ring worked out once (`ring_px`). While it's the only thing moving (the boot animation, a status screen whose text doesn't change), `main.c` draws and pushes only its rows (`ui_spinner_rows`) back to back, about three times the normal frame rate.
 - Data log (`datalog.c`): 32-byte records every 200ms while RPM comes in (the gauges), a new session each boot, in a flash ring written page by page (a power cut loses under 2s). "Send log" lets the dongle go and makes the dash a BLE peripheral ("GT86 DASH", `dash.gatt`): the page in `web/` (Chrome on Android, served over https for Web Bluetooth: Bun's `Bun.serve` with an HTML import, Tailwind through `bun-plugin-tailwind`; `package.json`, `bunfig.toml` and the `Dockerfile` to self-host it are at the root) writes 'S', gets a 4-byte size then the log from its oldest record as notifications, writes 'D' once it has it all (the dash shows "downloaded" and goes back to scanning for the dongle, as a click does, no reboot), and saves CSVs. Its parser in `web/app.ts` must follow `datalog.h`'s record layout.
 - Thresholds are the `*_RANGE` macros at the top of `src/app/ui.c`; `ui_tiles` wires labels, formats and units onto them.
@@ -49,6 +49,8 @@ Adding a signal: a `signal_t` value, a decoder case in `obd.c`, a tile + range i
 
 ## Conventions and gotchas
 
+- Every doc is in English: README, `docs/`, `faceplate/README.md`, this file, and `TODO.md` (its tasks too), as are code comments and log lines.
+- A code file stays under about 300 lines (generated ones aside: `fonts.c`, `logo.c`, `faceplate/data/dimensions.js`): past that, split it by what it does (a module, a page, a test group), not by line count.
 - CAN IDs and formulas come from community reverse-engineering and are **unverified on this car**. Verified on this car so far: the oil temp via Mode 21 PID 01 (byte AC - 40), and that the ECU lists PID 0x24 (AFR) as supported, not 0x52 (ethanol) nor 0x5C (oil). On its memory: Subaru SSM reads (A0) get no answer; UDS ReadMemoryByAddress (`23 14` + 4 address bytes + 1 size byte, header 7E0) reads RAM from 0xFFF80000 without security access but answers 7F 23 33 (security access denied) on ROM. The ethanol % is a big-endian float at 0xFFF87C7C in the engine ECU's RAM (`ETHANOL_RAM_READ`), found by three RAM scans and matched against OFT (2026-11-16): this tune's layout, a reflash may move it. In `ble.c`, only the 18F0 GATT profile is confirmed (on the Vgate iCar Pro 2S); the others are guesses. Don't present any of them as confirmed. `docs/can-reverse-engineering.md` covers how to verify them.
 - RAM: the full frame (153.6KB) is a static array, BTstack and cyw43 use static pools: overflow is a link error, not a runtime surprise. If a change doesn't link, `canvas_t` supports drawing in bands (draw and push per band).
 - Flash, from the end of the 2MB: BTstack's own two sectors (`pico_btstack_flash_bank`), the 64KB log ring, the settings sector, then the data log down to the first megabyte. `store_init` refuses to touch flash if the firmware ever reaches the settings sector, and turns the data log off if it reaches the first megabyte. Flash writes go through `flash_safe_execute` (interrupts off): `log_line` is for events only, never per frame or per OBD reply.

diff --git a/README.md b/README.md
@@ -24,7 +24,7 @@ mise run ui          # render every screen into ui/*.png (ui/sheet.png: all side
 mise run wiring      # capture the wiring diagram (docs/wiring.html) for docs/wiring.md
 bun run wiring       # the wiring diagram in the browser, and the modules' dimensions to enter before printing
 mise run faceplate   # render the printed parts (faceplate with display + encoder, tray with the boards): STLs and pictures, see faceplate/README.md
-prek install         # once: code quality hooks on every commit (clang-format, biome, tsc, tests)
+mise install         # the tools, and the code quality hooks on every commit (clang-format, biome, tsc, tests)
 ```
 
 The simulator needs SDL2 (`brew install sdl2`).
